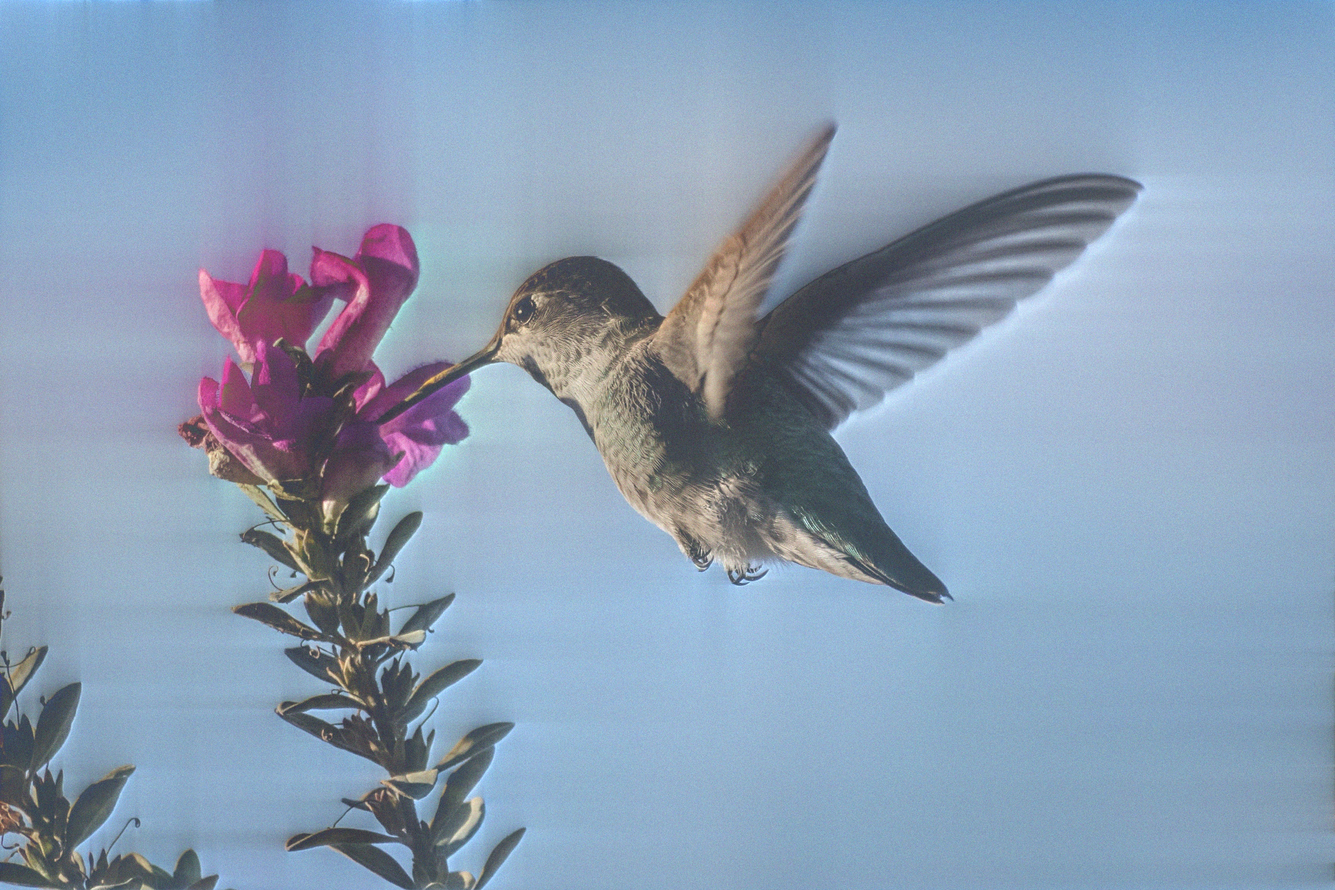
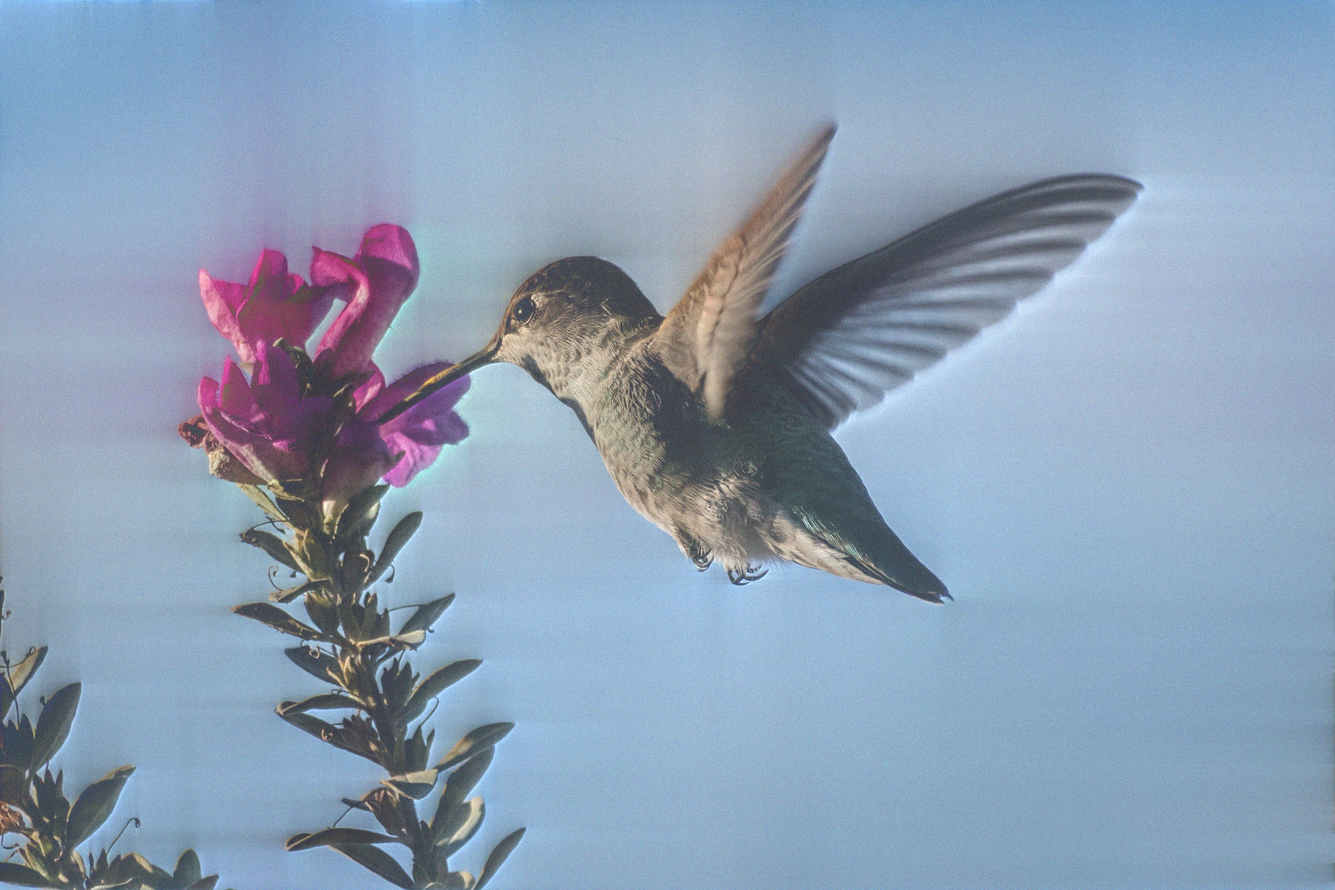
moar smol changes

Changed region(s): [[0.651, 0.992, 0.682, 1.0]]

diff --git a/project2/app.py b/project2/app.py
@@ -202,12 +202,15 @@ def granulometry(img, k_s_start, factor, iterations):
 
 if __name__ == "__main__":
     # --- Exercise 1 ---------------------------------------------------------------------------------------------------
+    print("Computing exercise 1")
+
     factor = 0.08  # alpha and beta value
 
     img_1_1 = cv2.imread("img/bird.jpg") / 255
     img_1_2 = cv2.imread("img/geese.jpg") / 255
 
     # --- Exercise 1.1 (Adding blur) -----------------------------------------------------------------------------------
+    print("Computing exercise 1.1")
 
     # Just motion blur
     img_1_1_blurry = motion_blur_filter(img_1_1, factor, factor)
@@ -224,6 +227,7 @@ if __name__ == "__main__":
     save_image("img_1_2_blurry_noisy", img_1_2_blurry_noisy * 255)
 
     # --- Exercise 1.2 (Removing blur) ---------------------------------------------------------------------------------
+    print("Computing exercise 1.2")
 
     # Inverse filter directly after motion blur (1)
     inverse_1_directly = h_inverse(img_1_1_blurry, factor, factor)
@@ -251,30 +255,30 @@ if __name__ == "__main__":
     img_1_1_blurry = motion_blur_filter(img_1_1, factor, factor)
     img_1_1_blurry_noisy = random_noise(img_1_1_blurry, "gaussian", mean=0, var=0.002)  # remove later
 
-    img_1_1_wiener_after = wiener_filter(img_1_1, img_1_1_blurry_noisy, True, True, factor, factor)
+    img_1_1_wiener_after = wiener_filter(img_1_1, img_1_1_blurry_noisy, True, True, 0.8, 0.8)
     save_image("img_1_1_wiener_after", img_1_1_wiener_after)
 
-
     # --- Exercise 3 ---------------------------------------------------------------------------------------------------
+    print("Computing exercise 3")
 
-
-    # Exercise 3.1
     img_3_1 = cv2.imread("img/oranges.jpg")
     img_3_2 = cv2.imread("img/orangetree.jpg")
 
+    # Exercise 3.1
+    print("Computing exercise 3.1")
+
     # Pre-processing (black and white)
     img_3_1_bw = black_and_white(img_3_1, 100, 100, 100)
-    #cv2.imshow("BW1", img_3_1_bw/255)
-
     img_3_2_bw = black_and_white(img_3_2, 255, 255, 200)
-    #cv2.imshow("BW2", img_3_2_bw / 255)
-    #save_image("img_3_2_bw", img_3_2_bw)
+
+    save_image("img_3_1_bw", img_3_1_bw)
+    save_image("img_3_2_bw", img_3_2_bw)
+
     # Since a few leaves are still marked as white, we need a close operation (Dilation followed by Erosion)
     erode_kernel = cv2.getStructuringElement(cv2.MORPH_ELLIPSE, (15, 15))
     dilate_kernel = cv2.getStructuringElement(cv2.MORPH_ELLIPSE, (50, 50))
     img_3_2_bw_closing = cv2.morphologyEx(img_3_2_bw, cv2.MORPH_ERODE, erode_kernel)
     img_3_2_bw_closing = cv2.morphologyEx(img_3_2_bw_closing, cv2.MORPH_DILATE, dilate_kernel)
-    #cv2.imshow("Closing", img_3_2_bw_closing)
     save_image("img_3_2_closing", img_3_2_bw_closing)
 
     # Count oranges
@@ -290,6 +294,7 @@ if __name__ == "__main__":
     print("Image 2 oranges count:", len(count2))
 
     # Exercise 3.2
+    print("Computing exercise 3.2")
     img_3_3 = cv2.imread("img/lights.jpg")
     img_3_4 = cv2.imread("img/jar.jpg")
 
@@ -319,7 +324,3 @@ if __name__ == "__main__":
     plt.plot(img_3_4_freq[:, 0], img_3_4_freq[:, 1])
     plt.title("img_3_4 light size frequencies")
     plt.show()
-
-
-    cv2.waitKey(0)
-    cv2.destroyAllWindows()
